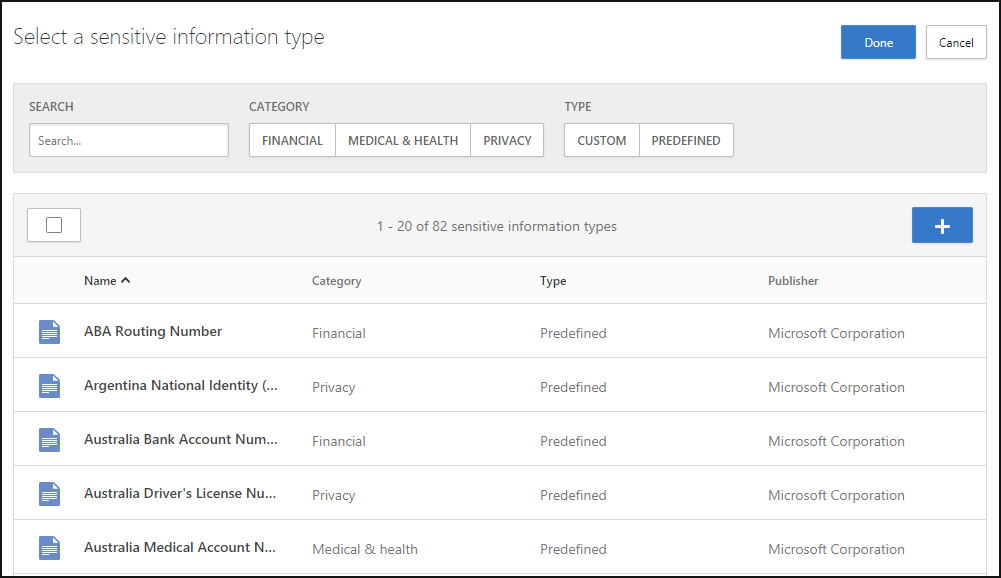
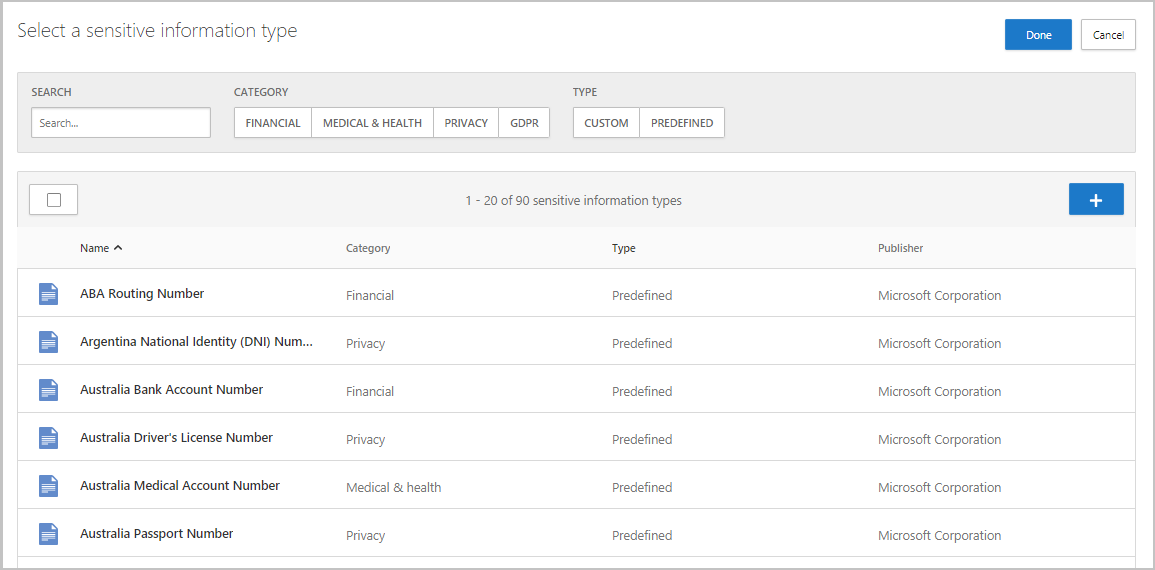
updates for Ux change

diff --git a/CloudAppSecurityDocs/dcs-inspection.md b/CloudAppSecurityDocs/dcs-inspection.md
@@ -2,12 +2,12 @@
 # required metadata
 
 title: How Cloud App Security performs content inspection using Microsoft Data Classification Service| Microsoft Docs
-description: This article describes the process Cloud App Security follows when performing DLP content inspection using Microsoft Data Classificatin Service. 
+description: This article describes the process Cloud App Security follows when performing DLP content inspection using Microsoft Data Classification Service. 
 keywords:
 author: rkarlin
 ms.author: rkarlin
 manager: mbaldwin
-ms.date: 9/21/2018
+ms.date: 10/31/2018
 ms.topic: conceptual
 ms.prod:
 ms.service: cloud-app-security
@@ -33,39 +33,34 @@ ms.suite: ems
 
 # Microsoft Data Classification Services integration
 
-Microsoft Cloud App Security enables you to utilize the Microsoft Data Classification Service natively, to classify the files in your cloud apps. Microsoft Data Classification Service provides a unified information protection experience across Office 365, Azure Information Protection, and Microsoft Cloud App Security, and allows you to extend your data classification efforts to the third-party cloud apps that are protected by Microsoft Cloud App Security, leveraging the decisions you already made across an even greater number of apps.
+Microsoft Cloud App Security enables you to natively use the Microsoft Data Classification Service, to classify the files in your cloud apps. Microsoft Data Classification Service provides a unified information protection experience across Office 365, Azure Information Protection, and Microsoft Cloud App Security. The classification service allows you to extend your data classification efforts to the third-party cloud apps protected by Microsoft Cloud App Security, using the decisions you already made across an even greater number of apps.
 
 >[!NOTE]
 > This feature is currently only available in the US and Europe (excluding France).
 
-With no additional configuration required, when creating a data leak prevention
-policy for your files in Microsoft Cloud App Security, you will automatically
-have the option to set the **Inspection method** to use the **Microsoft Data Classification Service**.
 
-![data classification service setting](./media/dcs-enable.png)
+## Enable content inspection with Data Classification Services
+You have the option to set the **Inspection method** to use the **Microsoft Data Classification Service** with no additional configuration required. This option is useful when creating a data leak prevention policy for your files in Microsoft Cloud App Security.
 
-To enable content inspection with Data Classification Services:
 
-1. In the [file policy](data-protection-policies.md) page, under **Inspection method** select **Data Classification Service**.
+1. In the [file policy](data-protection-policies.md) page, under **Inspection method**, select **Data Classification Service**.
+     ![data classification service setting](./media/dcs-enable.png)
 2. Select whether the policy should apply when **any** or **all** of the criteria are met.
-3. Choose your content inspection type by selecting the sensitive information types.
+3. **Choose inspection type** by selecting the **Sensitive information types**.
  ![data classification service setting](./media/dcs-sensitive-information-type.png)
 
-5. You can use the [default sensitive information types](https://support.office.com/article/what-the-sensitive-information-types-look-for-fd505979-76be-4d9f-b459-abef3fc9e86b) as well as the [custom sensitive information types](https://support.office.com/article/create-a-custom-sensitive-information-type-82c382a5-b6db-44fd-995d-b333b3c7fc30) (which support complex patterns with Regex, keywords, and large dictionary) that you created in Office 365, and reuse them to define what happens to files protected by Microsoft Cloud App Security.
+4. You can use the [default sensitive information types](https://support.office.com/article/what-the-sensitive-information-types-look-for-fd505979-76be-4d9f-b459-abef3fc9e86b) to define what happens to files protected by Microsoft Cloud App Security. You can also reuse any of your [Office 365 custom sensitive information types](https://support.office.com/article/create-a-custom-sensitive-information-type-82c382a5-b6db-44fd-995d-b333b3c7fc30).
 
-6. Optionally, you can unmask the last four characters of a match. By default, matches are masked and shown in their context, and include the 40 characters before and after the match. If you select this checkbox, it will unmask the last four characters of the match itself.
+5. Optionally, you can unmask the last four characters of a match. By default, matches are masked and shown in their context, and include the 40 characters before and after the match. If you select this checkbox, it will unmask the last four characters of the match itself.
 
-7. You can also set alerts and governance actions for the policy. For more information, see [file policies](data-protection-policies.md) and [governance actions](governance-actions.md).
+6. You can also set alerts and governance actions for the policy. For more information, see [file policies](data-protection-policies.md) and [governance actions](governance-actions.md).
 
-Setting these policies in Microsoft Cloud App Security enables you to easily
-extend the strength of the Office 365 DLP capabilities to all your other
-sanctioned cloud apps and protect the data stored in them with the full toolset
-provided to you by Microsoft Cloud App Security – such as the ability to
+Setting these policies enables you to easily extend the strength of the Office 365 DLP capabilities to all your other sanctioned cloud apps and protect the data stored in them with the full toolset provided to you by Microsoft Cloud App Security – such as the ability to
 [automatically apply Azure Information Protection classification labels](azip-integration.md) and the ability to control sharing permissions.
 
 
 
-## See Also  
+## Next steps  
 [Control cloud apps with policies](control-cloud-apps-with-policies.md)   
 
 [Premier customers can also choose Cloud App Security directly from the Premier Portal.](https://premier.microsoft.com/)  
